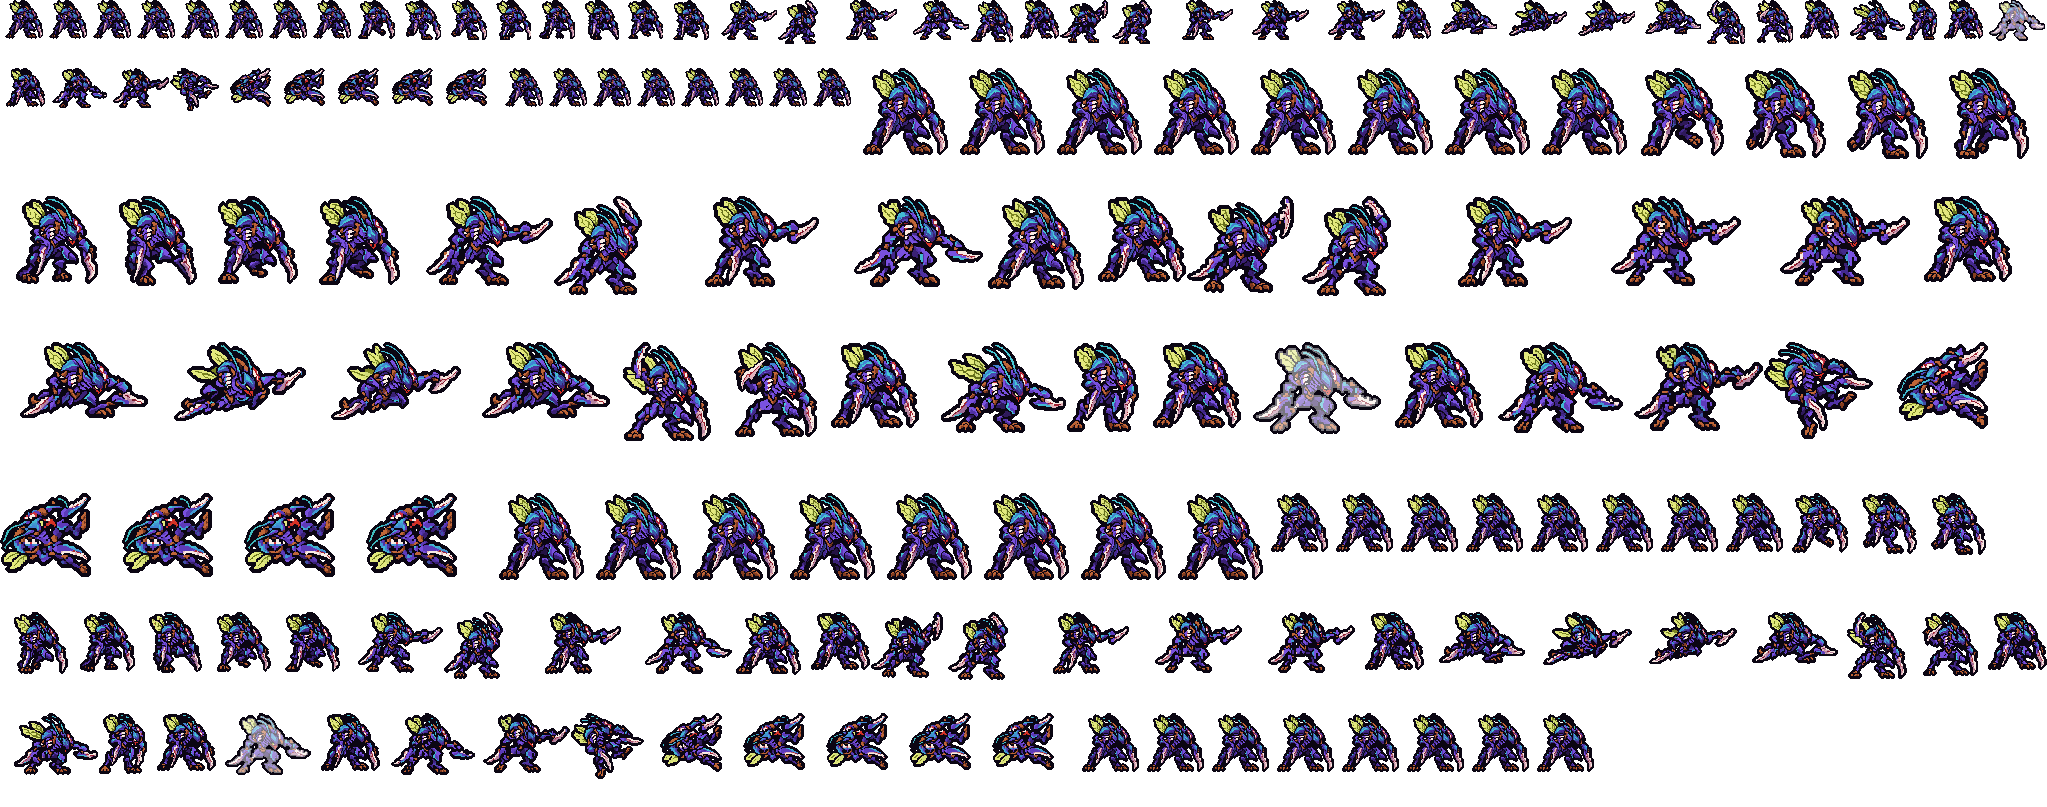
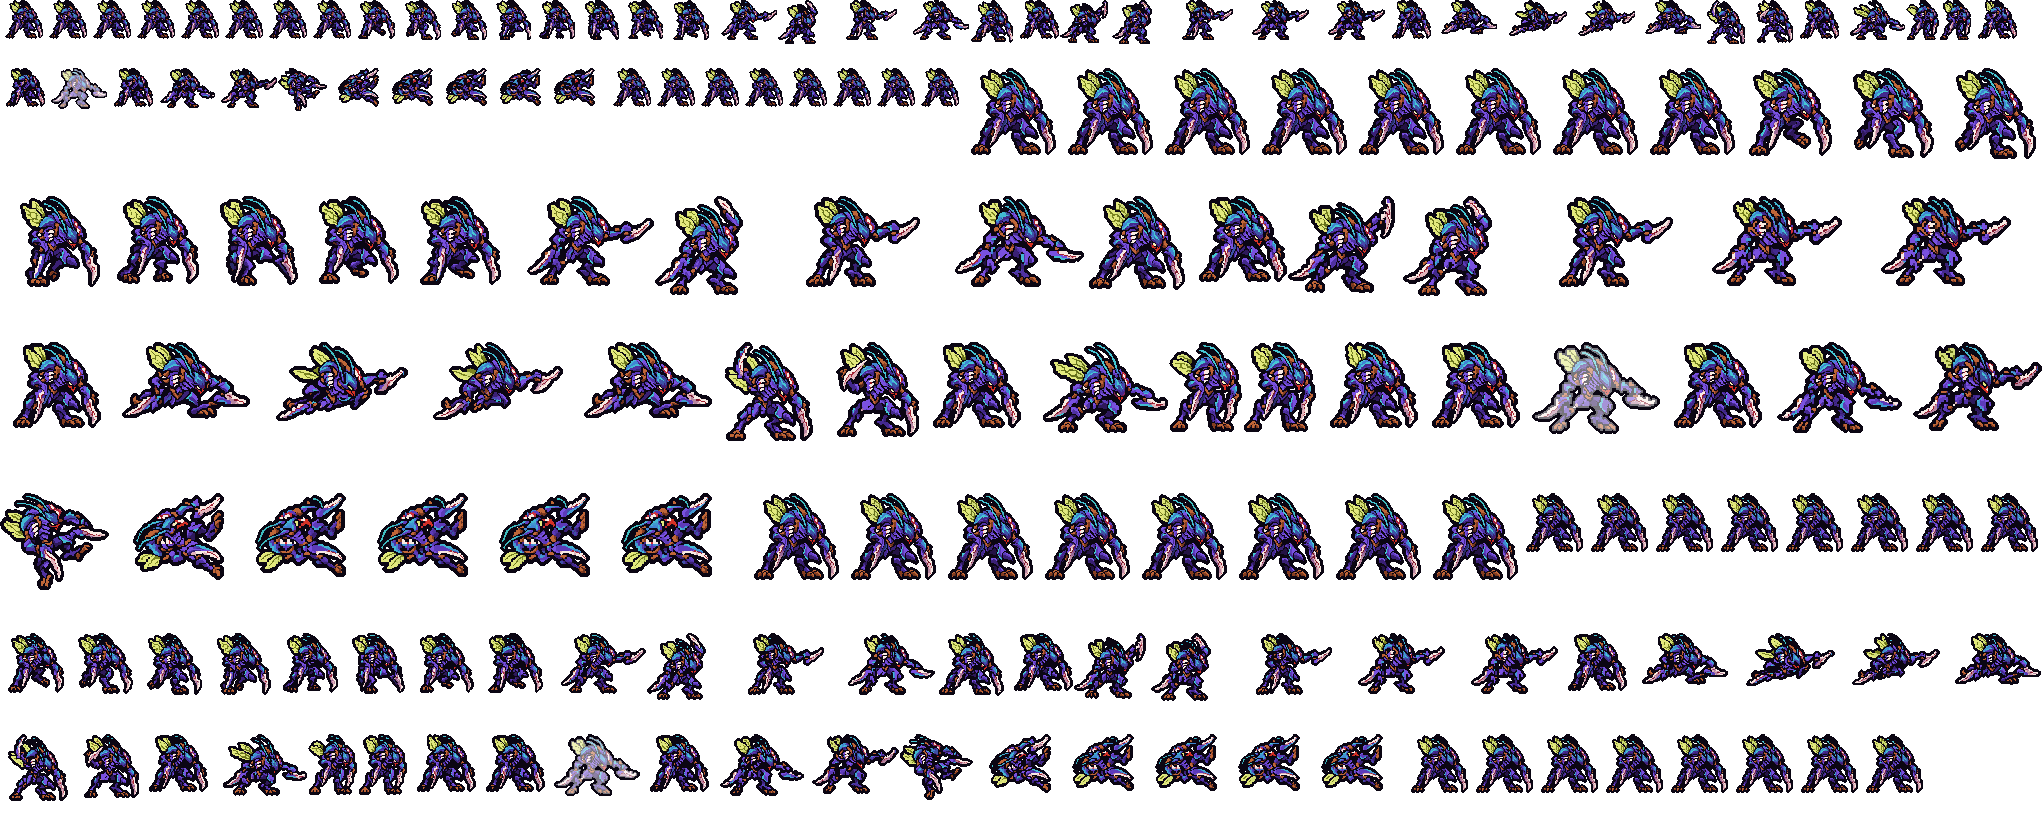
卡兹克动作补帧：R 虚空突袭 3 帧 3 姿势 -> 5 帧 5 姿势（翅膀绕翅根转；中间帧用他自己的原帧做）
用户：「还有有的动画感觉只有一帧 不如oppi的地方都要补 参考联盟的动画」，又说「动画你觉得少的地方就想办法补」「能改就想办法改 全都要改」，
现在「剩下的一批英雄也做了啊 都做完了装进去了再测」。对照表里 R 3 帧 0.3 秒（技能数据 r_anim 18 tick，隐身等都在第 0 tick，
帧上没有判定）。没有新画，没有交给 Codex，没有用图像模型。数法：「几帧，其中几个不同的姿势」。

- tools/art/rig_khazix_hd.py（他的图集就是它写的，a5f3abd03：干净的树上六步 rig -> ppu_restyle -> ppu_hd -> ppu_one ->
  --one-ground -> hero_reels 逐文件复现，只有上一个提交改掉的那份过时的选人卡片不同）：INB 里的标签不再从图集读帧数和时长，
  按自己的表出帧：inb_frame() 把翅膀（按它自己的黄绿色在框里挑，连同两格深、只挨着翅膀 / 描边 / 空白的描边；触角的青色和
  甲壳不动）交给 inbetween.vary 的 spin，绕背后的翅根转、翅根藏在身子后面（under），每帧核对翅膀以外逐格没变：
  张开、爪子伸出去 50 | 蜷起来的身子、翅膀比蜷身那张往下 30 度（刚从平举抬上来）50 | 蜷身 50 | 站起来的身子、翅膀转过头
  15 度 50 | 站定（attack_6）100，一共还是 300，蜷身 100、站定 200 的毫秒没变
- 图集和 fanim 重新生成：2047x807 -> 2042x830；其余 7 个标签（连同 hd_、lo_ 和待机共 21 个）逐帧像素、时长都没变；
  hero_reels.json 不用改（待机剪的是普攻和 W），选人卡片还是 Q、W、R、普攻（38 -> 40 帧，一圈还是 15020 毫秒）；
  选人格子用的那张 1.81 -> 2.01 MiB
- docs/heroes/league_khazix.md「开发记录」加一行

不满意的地方：两张中间帧只有翅膀在动，身子还是原来那三张；张开到蜷身那一下爪子还是一下收回来（伸出去的爪子盖着腿，转不了）；
站起来那张带着原画在触角之间的 2 格透空（原画就有）。

查过：hero_reels --check --hero khazix（0）；新旧图集逐帧对比（compare_sheets：21 个标签逐帧没变，R 总长 300，100 / 200 两个
分界还在）；sheet_audit（新帧的针孔都是原画那几张自己的）；ui_sheets（bp 304.0 / 768 MiB）；league_viego_soul make_override 和
--check；gen_hero_docs --check；cargo test --release -p hd_engine -p league_main -p league_viego_soul -p league_khazix（48 + 41 +
26 + 3 全过）。每帧 3 倍、翅膀 6 倍看过；流水线在这次提交上重跑，文件不变。

diff --git a/tools/art/rig_khazix_hd.py b/tools/art/rig_khazix_hd.py
@@ -25,6 +25,7 @@ from scipy import ndimage
 HERE = os.path.dirname(os.path.abspath(__file__))
 sys.path.insert(0, HERE)
 import casts_khazix_hd as CA  # noqa: E402
+import inbetween as IB  # noqa: E402
 import pack_khazix_actions as PK  # noqa: E402
 import ppu_rig as R  # noqa: E402
 import rig_rengar_hd as RG  # noqa: E402
@@ -86,11 +87,61 @@ def pad_for(D, casts):
     return left, right, top, 6
 
 
+# R's in-betweens (2026-11-14, the user: 「有的动画感觉只有一帧 不如oppi的地方都要补 参考联盟的动画」): R had three
+# drawings for its 300 ms (r_anim 18 ticks; the stealth and the rest at tick 0, no tick on a frame) - spread with the
+# claws out, hunched, standing (attack_6). Two frames from his own drawings, nothing drawn: his wings turned about their
+# root behind his back (inbetween.spin, "under": the root stays hidden) - on the hunched drawing still low, coming up
+# from the spread one's level wings (-30 deg), and on the standing one past upright before they settle (+15 deg). The
+# wings by their own yellow-greens inside the box, with their outline two squares deep where it touches only wing,
+# outline or air (the antennae's cyan and the carapace stay). The drawings keep their milliseconds: hunched at 100,
+# standing at 200. INB tags do not take their frames from the sheet.
+INB = {"ult": [(1, 50), (2, 50, "wings_low"), (2, 50), (3, 50, "wings_up"), (3, 100)]}
+INB_PARTS = {"wings_low": dict(box=(32, 14, 66, 50), about=(61, 45), deg=-30),
+             "wings_up": dict(box=(36, 18, 68, 52), about=(62, 46), deg=15)}
+INB_PAD = 12
+
+
+def wing_colour(a):
+    rgb = a[..., :3].astype(int)
+    r, g, b = rgb[..., 0], rgb[..., 1], rgb[..., 2]
+    return (a[..., 3] > 0) & (r > 90) & (g > 90) & (b < g - 40) & (abs(r - g) < 70)
+
+
+def inb_frame(rig, can, part):
+    """The drawing's canvas with INB_PARTS[part] (its wings) turned; the same canvas size."""
+    p = INB_PARTS[part]
+    x0, y0, x1, y1 = p["box"]
+    box = np.zeros(can.shape[:2], bool)
+    box[y0:y1 + 1, x0:x1 + 1] = True
+    dark = (can[..., 3] > 0) & (can[..., :3].astype(int).max(-1) < 40)
+    m = wing_colour(can) & box
+    for _ in range(2):
+        for y, x in zip(*np.nonzero(ndimage.binary_dilation(m, structure=np.ones((3, 3))) & dark & box & ~m)):
+            nb = can[max(0, y - 1):y + 2, max(0, x - 1):x + 2]
+            nd = (nb[..., 3] > 0) & (nb[..., :3].astype(int).max(-1) < 40)
+            if ((nb[..., 3] == 0) | wing_colour(nb) | nd).all():
+                m[y, x] = True
+    parts = {part: [(int(x), int(y), int(x), int(y)) for y, x in zip(*np.nonzero(m))]}
+    out = IB.vary(can, parts, tuple(int(v) for v in rig.D.outline), spins=[(part, p["about"], p["deg"], "under")],
+                  pad=INB_PAD, name=part)
+    q = INB_PAD
+    if out[:q, :, 3].any() or out[-q:, :, 3].any() or out[:, :q, 3].any() or out[:, -q:, 3].any():
+        sys.exit(f"{part}: the wings leave the canvas")
+    return out[q:-q, q:-q]
+
+
 def frames(rig, casts):
     sheet = R.sheet_of(HERO)
     out = {}
     for tag in sheet:
         if tag in ("idle", "bp"):
+            continue
+        if tag in INB:
+            drawn = {}
+            for k, *_ in INB[tag]:
+                if k not in drawn:
+                    drawn[k] = RG.on_grid(rig, *casts[f"{tag}_{k}"])
+            out[tag] = [(inb_frame(rig, drawn[k], part[0]) if part else drawn[k], ms) for k, ms, *part in INB[tag]]
             continue
         ms = [m for _, m in sheet[tag]]
         if tag == "idle_base":

diff --git a/docs/heroes/league_khazix.md b/docs/heroes/league_khazix.md
@@ -103,6 +103,7 @@
 | 高清帧（PPU 2.24） | 2026-11-05 用 PPU 重做，和机器人、莉莉娅、烬在同一个 PR（用户：「接下来重做螳螂 机器人 莉莉娅 烬」「卡兹克2.24 布里茨1.8 莉莉娅2.62 烬1.8」「codex交付了 做到完美后喊我review」「通过，开 PR 安装」）。设计图：Codex 照旧精灵描密的原图，按原图约 13.8 像素一格读回（81 × 83 格；触角尖到脚底 83 行，旧精灵 37 行，PPU 2.24）；细的青色触角沿骨架线铺到格子上（不然在 13.8 像素一格时读成虚线）；外描边加 2 格。动作：Codex 照旧版同一帧整帧重画，交了 26 张图（Q 第 3、5、6 帧，E 接 W 第 4、7 帧，R 第 3 帧，受击第 2 帧，死亡第 6–8 帧共 10 帧和别的帧一样，只画一次），白底原图读回到设计图的格子上：每帧的缩放按叠合法定：把 Codex 的画缩放后叠到模板的浅色人影上，取重合最好的比例（只有姿势和模板差太远、重合不到 0.65 的帧才退回身高、头、面积、叠合四者的中位数）；只按身高或面积，更长的触角、张开的翅膀、举高的枝条会把人量小一成左右；量头用翅膀的淡黄绿色；没有烘焙的特效。待机和选人卡轮播是 hero_reels 从新动作剪的；选人卡偏移按 bp_card_audit 无值 → -10（举起的镰爪尖照惯例让它被裁，头顶离卡顶约 1 格；不设值会顶出卡片）；附身的灵魂表、俄洛伊的灵魂图跟着换成新帧。|
 | 音效 | 英雄联盟的音效和配音（`tools/lol/extract_khazix.py`）：挥爪、命中，被动就绪和打出，Q 出手、普通命中、孤立命中，E 起跳、落地，W 甩出、命中，R 隐身，进化，击杀刷新 E；Q、E、R 和三次进化的中文配音。版权属于 Riot Games，**不提交到仓库**，按下面的命令在本地生成 |
 | 图标 | 官方技能图标（Q / E / R），从本地客户端提取，缩到 64×64 |
+| 动作补帧（2026-11-14） | 用户：「还有有的动画感觉只有一帧 不如oppi的地方都要补 参考联盟的动画」，又说「动画你觉得少的地方就想办法补」「能改就想办法改 全都要改」。对照表里 R「虚空突袭」只有 3 帧 0.3 秒（技能数据 18 tick，隐身那些都在第 0 tick，帧上没有判定）。没有新画，也没交给 Codex：两张中间帧都用他自己的画做，只转翅膀（[`tools/art/rig_khazix_hd.py`](../../tools/art/rig_khazix_hd.py) 的 INB 表，[`tools/art/inbetween.py`](../../tools/art/inbetween.py) 的 `spin`）：翅膀按它自己的黄绿色挑出来（连同两格深的描边，触角的青色和甲壳不动），绕背后的翅根转，翅根藏在身子后面，每帧核对翅膀以外逐格不变。下面写的是「几帧，其中几个不同的姿势」。**R 虚空突袭** 3 帧（3 个姿势）→ 5 帧，其中 5 个：张开、爪子伸出去；蜷起来的身子、翅膀还低着（比蜷身那张往下转 30 度，刚从张开时的平举抬上来）；蜷身；站起来的身子、翅膀转过头 15 度；站定。50、50、50、50、100 毫秒，一共还是 300 毫秒，蜷身（100）和站定（200）的毫秒没变。技能数据没改；待机、跑、普攻、Q、W、受击、阵亡逐帧没变。每帧 3 倍、翅膀 6 倍看过。待机剪的还是普攻和 W（`hero_reels.json` 不用改）；选人卡片还是 Q、W、R、普攻（38 → 40 帧，一圈还是 15020 毫秒；Q 在卡片里放全六张是上一个提交：卡片 11-05 加了 banpick_center 以后没重新生成）。图集 2047×807 → 2042×830，选人格子用的那张 1.81 → 2.01 MiB。游戏里还没看过 |
 
 重新生成（素材来自本机的英雄联盟客户端，音频不进仓库）：
 
